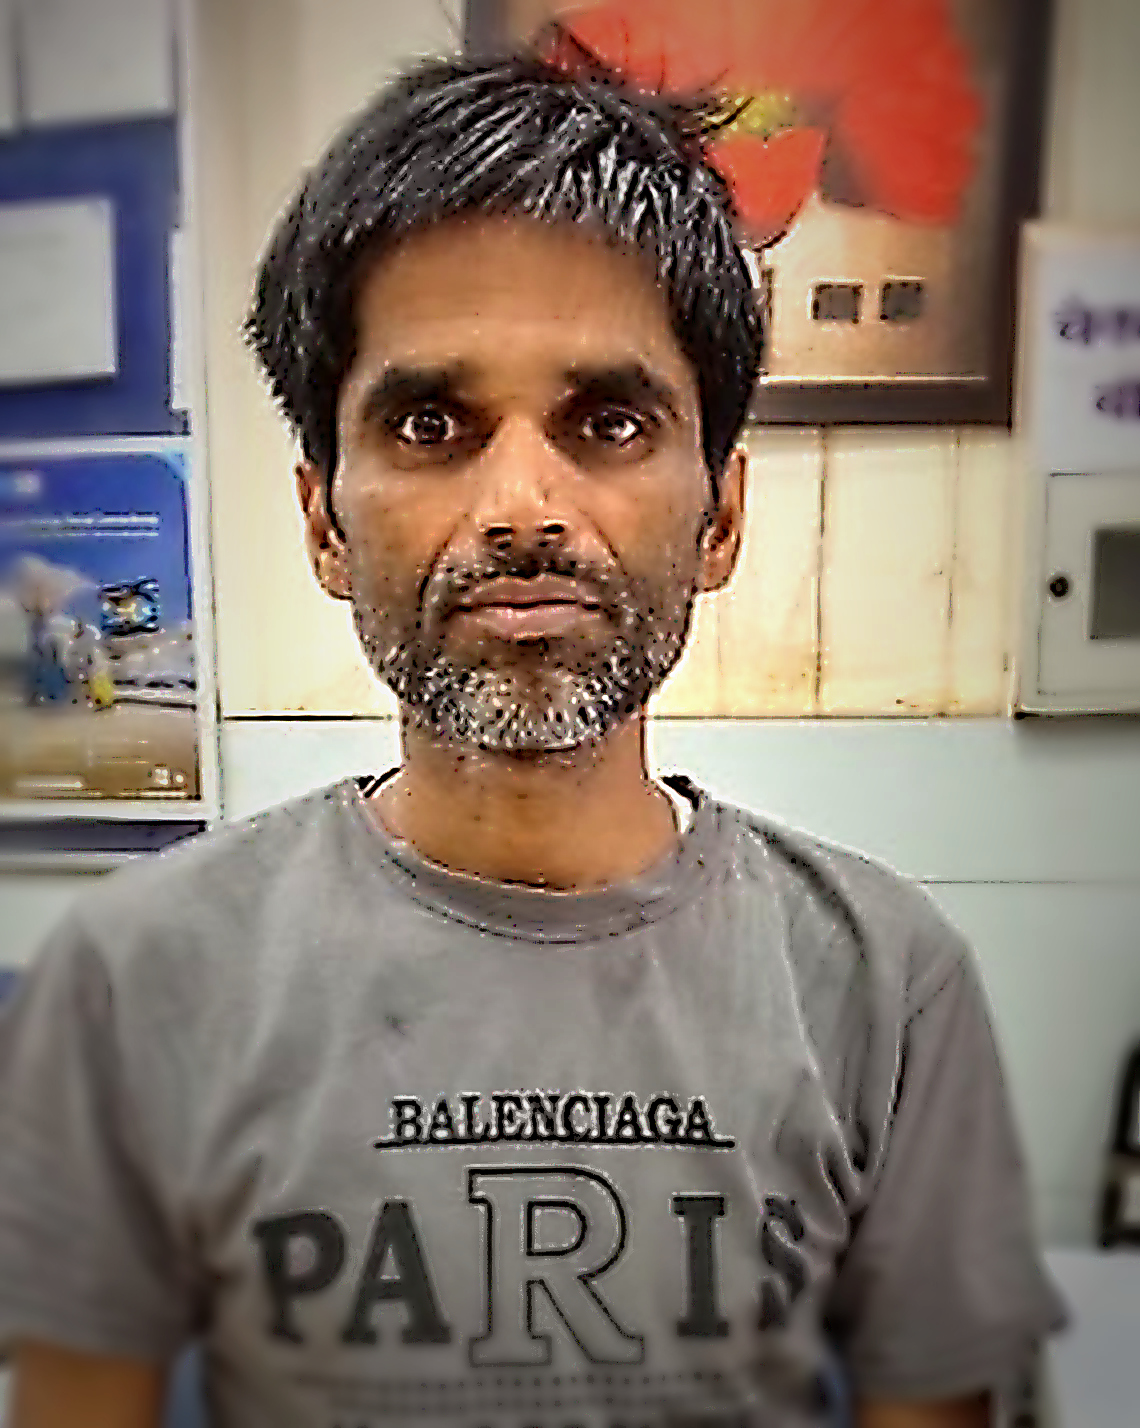
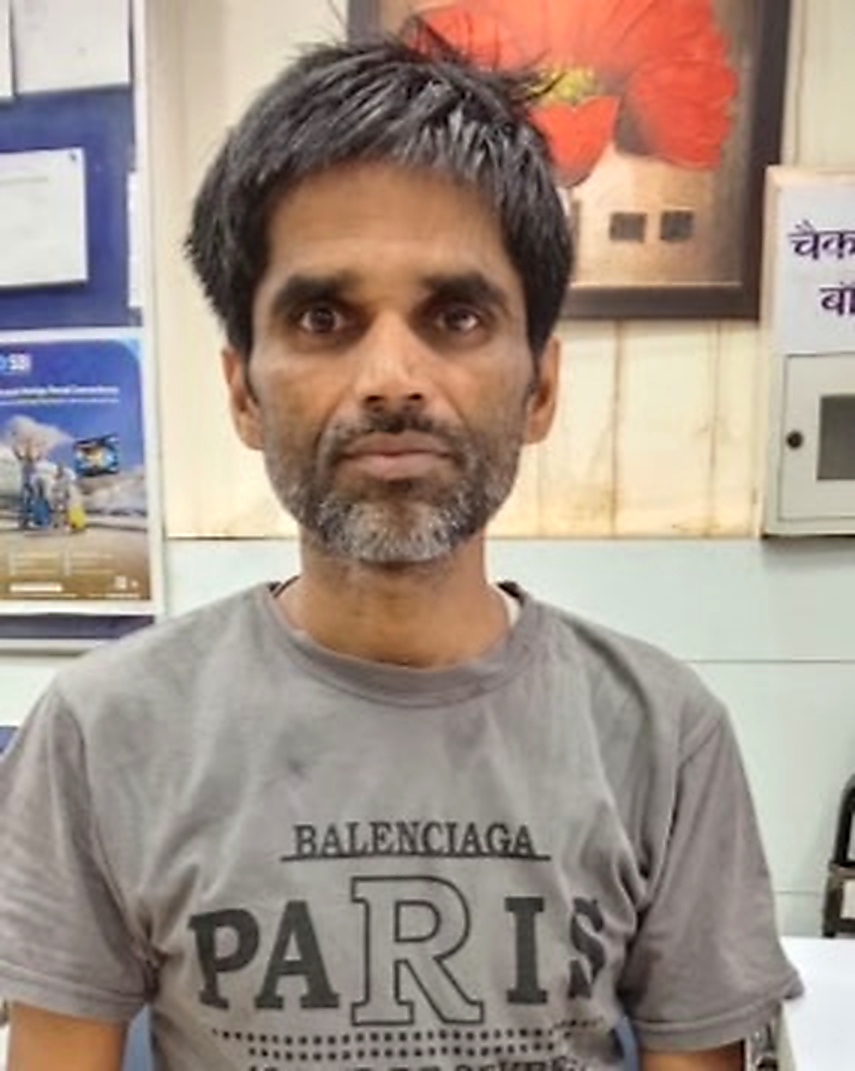
fix(ui): restore natural portrait rendering with aspect-ratio preservation and clean natural image enhancement

diff --git a/src/components/ArchitectBio.tsx b/src/components/ArchitectBio.tsx
@@ -35,29 +35,29 @@ export default function ArchitectBio() {
           
           {/* Visual Column */}
           <div className="lg:col-span-5 relative">
-            <div className="relative mx-auto max-w-md rounded-2xl overflow-hidden border-2 border-classical-gold/60 shadow-gold-glow group bg-black/40">
-              <div className="relative h-[480px] w-full bg-classical-card overflow-hidden">
+            <div className="relative mx-auto max-w-md rounded-2xl overflow-hidden border border-classical-gold/40 shadow-classical-deep group bg-classical-card">
+              <div className="relative aspect-[4/5] w-full overflow-hidden bg-black">
                 <Image
                   src="/satya-narayan-sharma.jpg"
                   alt="Principal Architect Satya Narayan Sharma - Lead Interior Designer and Master Craftsman"
                   fill
-                  sizes="(max-width: 768px) 100vw, 500px"
-                  className="object-cover object-top filter brightness-105 contrast-110 group-hover:scale-105 transition-all duration-700"
+                  sizes="(max-width: 768px) 100vw, 450px"
+                  className="object-cover object-center group-hover:scale-102 transition-transform duration-500"
                   priority
                 />
-                <div className="absolute inset-0 bg-gradient-to-t from-black via-transparent to-black/20 pointer-events-none" />
+                <div className="absolute inset-0 bg-gradient-to-t from-black/80 via-transparent to-transparent pointer-events-none" />
                 
                 {/* Floating Experience Tag */}
-                <div className="absolute top-4 left-4 bg-gold-gradient text-black px-3.5 py-1.5 rounded-full text-xs font-black uppercase tracking-wider shadow-lg flex items-center gap-1.5 z-10">
-                  <Award className="w-4 h-4 fill-black" />
-                  <span>28+ Years Master Legacy</span>
+                <div className="absolute top-4 left-4 bg-gold-gradient text-black px-3 py-1 rounded-full text-[11px] font-extrabold uppercase tracking-wider shadow-md flex items-center gap-1 z-10">
+                  <Award className="w-3.5 h-3.5 fill-black" />
+                  <span>28+ Years Legacy</span>
                 </div>
 
                 {/* Bottom Overlay Label */}
-                <div className="absolute bottom-5 left-5 right-5 p-4 rounded-xl bg-black/85 backdrop-blur-md border border-classical-gold/40 shadow-2xl z-10">
-                  <div className="text-[11px] uppercase tracking-widest text-classical-gold font-bold">Principal Architect & Founder</div>
-                  <h3 className="font-serif text-2xl font-bold text-white mt-0.5">Satya Narayan Sharma</h3>
-                  <p className="text-[11px] text-gray-300 mt-1 font-light">Lead Architectural Designer | Master Woodcraft Visionary</p>
+                <div className="absolute bottom-4 left-4 right-4 p-3 rounded-lg bg-black/80 backdrop-blur-md border border-classical-gold/30 shadow-lg z-10">
+                  <div className="text-[10px] uppercase tracking-widest text-classical-gold font-bold">Principal Architect & Founder</div>
+                  <h3 className="font-serif text-xl font-bold text-white leading-tight mt-0.5">Satya Narayan Sharma</h3>
+                  <p className="text-[11px] text-gray-300 font-light">Lead Architectural Designer | Master Woodcraft Visionary</p>
                 </div>
               </div>
             </div>
